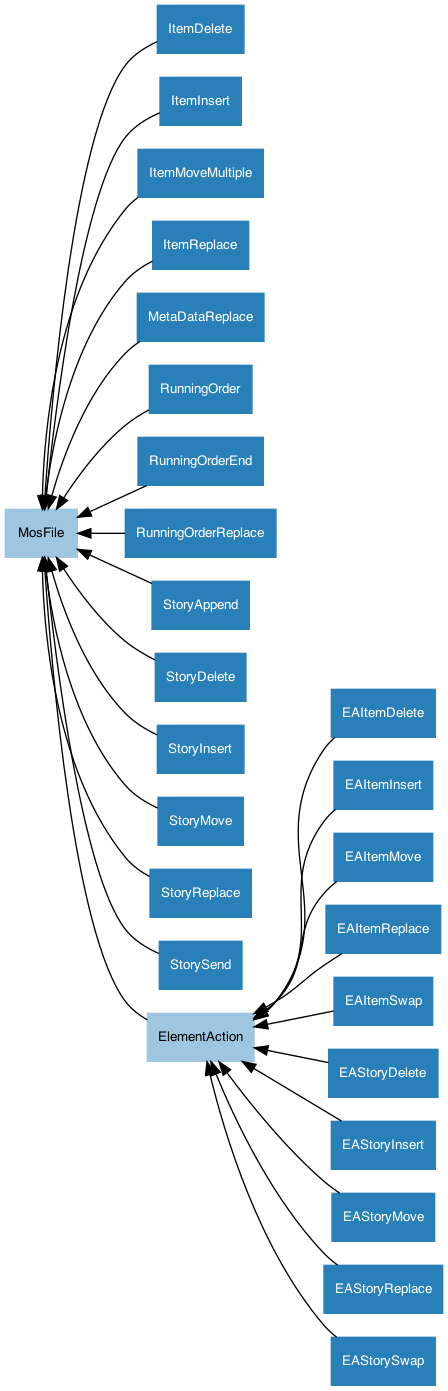
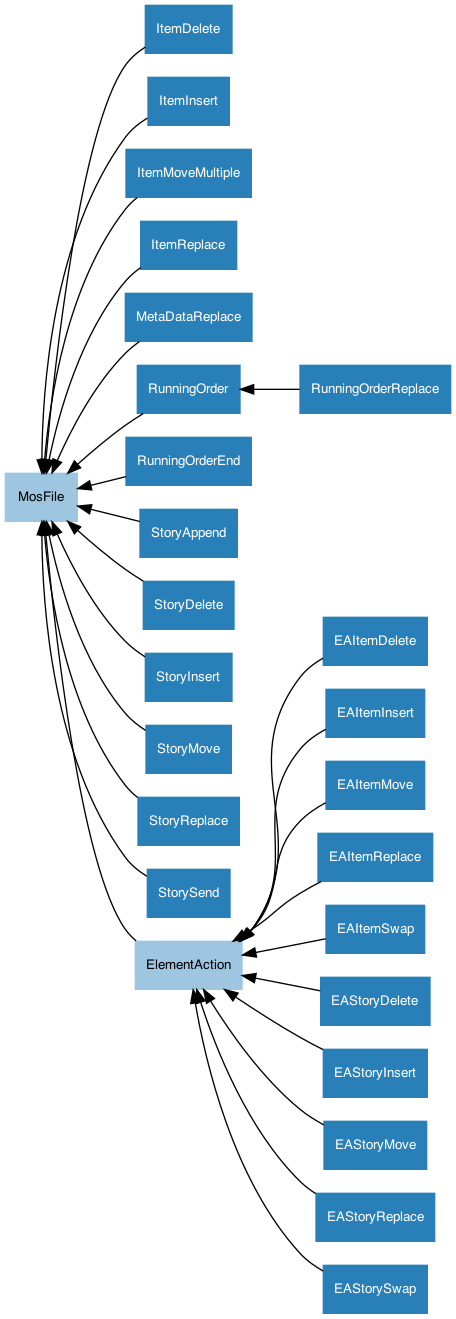
Add tx_time property to stories

diff --git a/mosromgr/moselements.py b/mosromgr/moselements.py
@@ -1,4 +1,33 @@
 import xml.etree.ElementTree as ET
+from datetime import timedelta
+
+
+def _get_story_times(all_stories, prog_tx_time):
+    "Create a dict of {story_id: story_tx_time}"
+    print(all_stories)
+    print(prog_tx_time)
+    story_times = {}
+    if all_stories and prog_tx_time:
+        tx_time = prog_tx_time
+        for story in all_stories:
+            story_times[story.find('storyID').text] = tx_time
+            story_duration = _get_story_duration(story)
+            tx_time += timedelta(seconds=story_duration)
+    return story_times
+
+
+def _get_story_duration(story_tag):
+    """
+    Return the sum of the text time and media time, or return None if not found
+    """
+    try:
+        metadata = story_tag.find('mosExternalMetadata')
+        payload = metadata.find('mosPayload')
+    except AttributeError:
+        return
+    text_time = int(payload.find('TextTime').text)
+    media_time = int(payload.find('MediaTime').text)
+    return text_time + media_time
 
 
 class MosElement:
@@ -53,12 +82,14 @@ class Story(MosElement):
     story. The Story ID, Story slug and duration are exposed as properties, and
     the parent XML element is provided for further introspection.
     """
-    def __init__(self, xml, *, id=None, slug=None, duration=None, unknown_items=False):
+    def __init__(self, xml, *, id=None, slug=None, duration=None,
+                 unknown_items=False, all_stories=None, prog_tx_time=None):
         super().__init__(xml, id=id, slug=slug)
         self._id_tag = 'storyID'
         self._slug_tag = 'storySlug'
         self._duration = duration
         self._unknown_items = unknown_items
+        self._story_times = _get_story_times(all_stories, prog_tx_time)
 
     @property
     def id(self):
@@ -89,17 +120,17 @@ class Story(MosElement):
     def duration(self):
         """
         The story duration (the sum of the text time and media time found
-        within ``mosExternalMetadata->mosPayload``)
+        within ``mosExternalMetadata->mosPayload``), in seconds (:class:`int`).
         """
-        try:
-            metadata = self.xml.find('mosExternalMetadata')
-            payload = metadata.find('mosPayload')
-        except AttributeError:
-            return
-        text_time = int(payload.find('TextTime').text)
-        media_time = int(payload.find('MediaTime').text)
-        self._duration = text_time + media_time
-        return self._duration
+        return _get_story_duration(self.xml)
+
+    @property
+    def tx_time(self):
+        """
+        The transmission time of the story (:class:`datetime.dateime` or
+        ``None`` if not available in the XML).
+        """
+        return self._story_times.get(self.id)
 
 
 class Item(MosElement):

diff --git a/mosromgr/mostypes.py b/mosromgr/mostypes.py
@@ -162,9 +162,11 @@ class RunningOrder(MosFile):
         A list of :class:`~mosromgr.moselements.Story` objects within the
         running order
         """
+        story_tags = list(self.base_tag.findall('story'))
+
         return [
-            Story(story_tag)
-            for story_tag in self.base_tag.findall('story')
+            Story(story_tag, all_stories=story_tags, prog_tx_time=self.tx_time)
+            for story_tag in story_tags
         ]
 
     @property
@@ -749,7 +751,7 @@ class ItemReplace(MosFile):
         return ro
 
 
-class RunningOrderReplace(MosFile):
+class RunningOrderReplace(RunningOrder):
     """
     An ``RunningOrderReplace`` object is created from a ``roReplace`` MOS file
     and can be initialised using classmethods :meth:`from_file` or
@@ -763,21 +765,6 @@ class RunningOrderReplace(MosFile):
     def base_tag_name(self):
         "The name of the base XML tag for this file type (:class:`str`)"
         return 'roReplace'
-
-    @property
-    def stories(self):
-        """
-        A list of :class:`~mosromgr.moselements.Story` objects within the
-        replacement running order
-        """
-        return [
-            Story(story_tag)
-            for story_tag in self.base_tag.findall('story')
-        ]
-
-    @property
-    def duration(self):
-        return sum(story.duration for story in self.stories)
 
     def merge(self, ro):
         "Merge into the :class:`RunningOrder` object provided"

diff --git a/tests/test_moselements.py b/tests/test_moselements.py
@@ -1,4 +1,5 @@
 from xml.etree.ElementTree import Element
+from datetime import datetime
 
 from mosromgr.mostypes import *
 from mosromgr.moselements import *
@@ -22,6 +23,7 @@ def test_running_order():
     assert isinstance(ro.stories, list)
     assert len(ro.stories) == 3
     assert ro.duration == 31
+    assert isinstance(ro.tx_time, datetime)
 
     story1 = ro.stories[0]
     assert repr(story1) == '<Story STORY1>'
@@ -32,6 +34,8 @@ def test_running_order():
     assert story1.id == 'STORY1'
     assert story1.slug == 'STORY 1'
     assert story1.duration == 3
+    assert isinstance(story1.tx_time, datetime)
+    assert story1.tx_time == ro.tx_time
 
     assert isinstance(story1.items, list)
     assert len(story1.items) == 3
@@ -54,6 +58,8 @@ def test_running_order():
     assert story2.id == 'STORY2'
     assert story2.slug == 'STORY 2'
     assert story2.duration == 8
+    assert isinstance(story2.tx_time, datetime)
+    assert story2.tx_time > story1.tx_time
 
     assert isinstance(story2.items, list)
     assert len(story2.items) == 3
